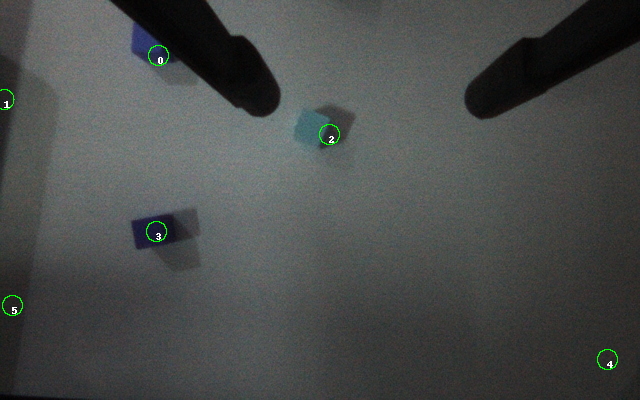
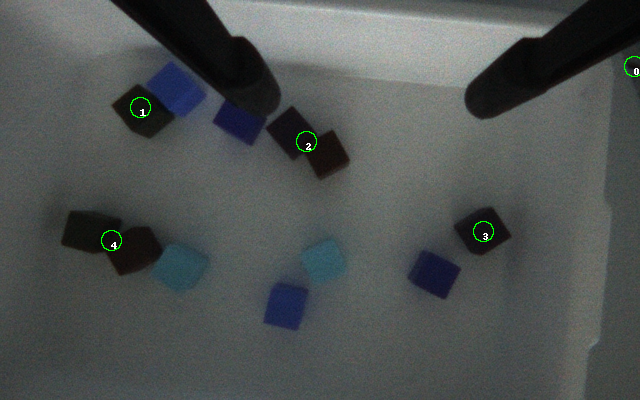
add IK execution error and summary

diff --git a/execute.py b/execute.py
@@ -72,10 +72,16 @@ rs = baxter_interface.RobotEnable(baxter_interface.CHECK_VERSION)
 rs.enable()
 
 # task setup
+n_attempts = int(sys.argv[1])
+execution_error_threshold = 0.04
 # z_initial = -0.05
-z_initial = 0.05
+z_initial = 0.
 z_table = -0.165
-camera_pose = {'position': Limb.Point(x=0.7715770154184426, y=-0.3133978759217212, z=0.4350424834433179), 'orientation': Limb.Quaternion(x=-0.5303342084664359, y=0.6182759231154774, z=0.34040073425704037, w=0.469689099664077)}
+grasp_force_threshold = 20.
+# camera_pose = {'position': Limb.Point(x=0.7715770154184426, y=-0.3133978759217212, z=0.4350424834433179), 'orientation': Limb.Quaternion(x=-0.5303342084664359, y=0.6182759231154774, z=0.34040073425704037, w=0.469689099664077)}
+# XYZ -> Left Anterior Superior
+workspace_low = np.asarray([0.62, 0.62])
+workspace_high = np.asarray([0.72, 0.72])
 
 # set up camera
 msg = rospy.wait_for_message('/cameras/left_hand_camera/camera_info', CameraInfo)
@@ -107,30 +113,31 @@ savefig('mask.png')
 # gripper_mask = np.ones((400, 640))
 # gripper_mask[:200, :] = 0
 
-global ox, oy
 def update_image(msg):
     global current_image, current_image_stamp
     current_image = PIL_Image.frombytes('RGBA', (msg.width, msg.height), msg.data)
     current_image_stamp = msg.header.stamp
 rospy.Subscriber('/cameras/left_hand_camera/image', Image, update_image)
 
-# XYZ -> Left Anterior Superior
-workspace_low = np.asarray([0.62, 0.62, -0.02])
-workspace_high = np.asarray([0.72, 0.72, -0.02])
+global force
+def update_gripper_state(msg):
+    global force
+    force = msg.force
+rospy.Subscriber('/robot/end_effector/left_gripper/state', EndEffectorState, update_gripper_state)
 
 # joint limits
-joint_limits = {
-    'left_w0': [0.28838838812245776, -1.8223691760078715],
-    'left_w1': [1.5826846779007757, 0.35051461003181705],
-    'left_w2': [3.056456719861687, -0.062126221909359257],
-    'left_e0': [0.6289321230330196, -0.2826359601678875],
-    'left_e1': [1.5512380717491248, 0.35089810522878839],
-    'left_s0': [-0.21015536794030168, -1.1075341288532687],
-    'left_s1': [-0.27458256103148904, -0.5],
-}
-joint_names = joint_limits.keys()
-joint_low = [a[1] for a in joint_limits.itervalues()]
-joint_high = [a[0] for a in joint_limits.itervalues()]
+# joint_limits = {
+#     'left_w0': [0.28838838812245776, -1.8223691760078715],
+#     'left_w1': [1.5826846779007757, 0.35051461003181705],
+#     'left_w2': [3.056456719861687, -0.062126221909359257],
+#     'left_e0': [0.6289321230330196, -0.2826359601678875],
+#     'left_e1': [1.5512380717491248, 0.35089810522878839],
+#     'left_s0': [-0.21015536794030168, -1.1075341288532687],
+#     'left_s1': [-0.27458256103148904, -0.5],
+# }
+# joint_names = joint_limits.keys()
+# joint_low = [a[1] for a in joint_limits.itervalues()]
+# joint_high = [a[0] for a in joint_limits.itervalues()]
 
 # delineate the workspace boundary
 # for a in xrange(2):
@@ -140,16 +147,21 @@ joint_high = [a[0] for a in joint_limits.itervalues()]
 #         execute_linear(left, x, y, workspace_high[2], Quat.from_v_theta([0,0,1], 0.), n_steps=1)
 # rospy.sleep(1.)
 
-a, b = np.random.rand(2)
-x = a * workspace_low[0] + (1. - a) * workspace_high[0]
-y = b * workspace_low[0] + (1. - b) * workspace_high[0]
-# execute_linear(left, x, y, workspace_high[2], Quat.from_v_theta([0,0,1], np.random.rand() * 2. * np.pi), n_steps=1)
-execute_linear(left, 0.6, 0.7, z_initial, Quat.from_v_theta([0,0,1], 0.), n_steps=1)
+# execute_linear(left, 0.6, 0.7, z_initial, Quat.from_v_theta([0,0,1], 0.), n_steps=1)
 
 # fitting a gaussian
 dbscan = cluster.DBSCAN(15.)
 meanshift = cluster.MeanShift(cluster_all=False)
-for i in xrange(int(sys.argv[1])):
+n_successes = 0
+n_ik_errors = 0
+for i in xrange(n_attempts):
+    print '* attempt %i' % i
+    # move to a random location in workspace
+    a, b, c = np.random.rand(3)
+    x = a * workspace_low[0] + (1. - a) * workspace_high[0]
+    y = b * workspace_low[0] + (1. - b) * workspace_high[0]
+    execute_linear(left, x, y, z_initial, Quat.from_v_theta([0,0,1], c * 2. * np.pi), n_steps=1)
+
     rospy.sleep(1.)
     # localize one cube
     # cu, cv = localize_cm_method(current_image, gripper_mask)
@@ -172,7 +184,7 @@ for i in xrange(int(sys.argv[1])):
     k = (z_table - camera_xyz[2]) / (pt.point.z - camera_xyz[2])
     # intersection: k * pt.point.x, k * pt.point.y, k * pt.point.z
     ox, oy = k * (pt.point.x - camera_xyz[0]) + camera_xyz[0], k * (pt.point.y - camera_xyz[1]) + camera_xyz[1]
-    print ox, oy
+    print 'object location', ox, oy
 
     # u, v = camera.project3dToPixel((ox, oy, z_table))
     # u, v = camera.project3dToPixel((nx, ny, nz))
@@ -201,10 +213,43 @@ for i in xrange(int(sys.argv[1])):
     )
     pub.publish(msg)
 
+    # choose a random
     quat = Quat.from_v_theta([0., 0., 1.], np.random.rand() * 2. * np.pi)
+    # move to pre-grasp pose
     execute_linear(left, ox, oy, z_initial, quat, n_steps=1)
-    execute_planar_grasp(left, left_gripper, z_initial, z_table, n_steps=10)
-    execute_linear(left, 0.6, 0.7, z_initial, Quat.from_v_theta([0,0,1], np.random.rand() * 2. * np.pi), n_steps=1)
+    # IK execution reached pose from the commanded pose
+    execution_error = np.linalg.norm(np.asarray(left.endpoint_pose()['position'])[:2] - [ox, oy])
+    print 'execution error:', execution_error
+    if execution_error < execution_error_threshold:
+        # execute vertical pinch grasp
+        traj = execute_vertical(left, z_table, n_steps=8, duration=4., timeout=8.)
+        left_gripper.close()
+        rospy.sleep(0.5)
+        # lift arm
+        execute_vertical(left, z_initial, n_steps=1, duration=2., timeout=4.)
+        rospy.sleep(0.5)
+        # use grasp force to recognize grasp success
+        print 'grasp force', force
+        if force > grasp_force_threshold:
+            print 'grasp succeeded'
+            # move to a random location in workspace
+            a, b, c = np.random.rand(3)
+            x = a * workspace_low[0] + (1. - a) * workspace_high[0]
+            y = b * workspace_low[0] + (1. - b) * workspace_high[0]
+            execute_linear(left, x, y, z_initial, Quat.from_v_theta([0,0,1], c * 2. * np.pi), n_steps=1, duration=2., timeout=4.)
+            n_successes += 1
+        else:
+            print 'grasp failed'
+        # release object
+        left_gripper.open()
+    else:
+        print 'IK trajectory execution error'
+        n_ik_errors += 1
+        continue
 
 
-# rospy.spin()
+print '* summary'
+print '# of attempts', n_attempts
+print '# of successes', n_successes
+print '# of failures', n_attempts - n_successes
+print '# of IK errors', n_ik_errors
